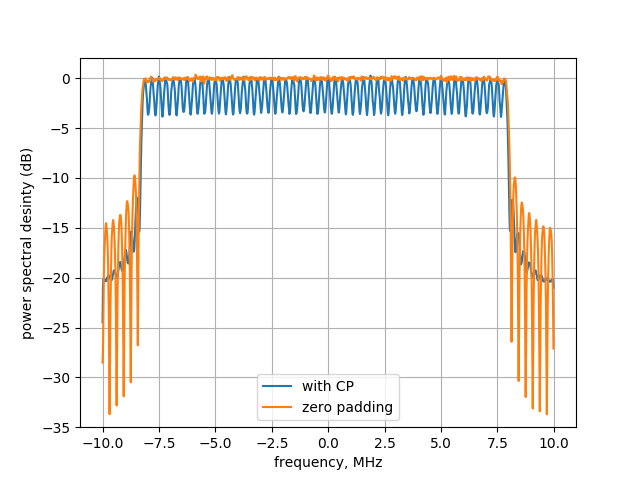
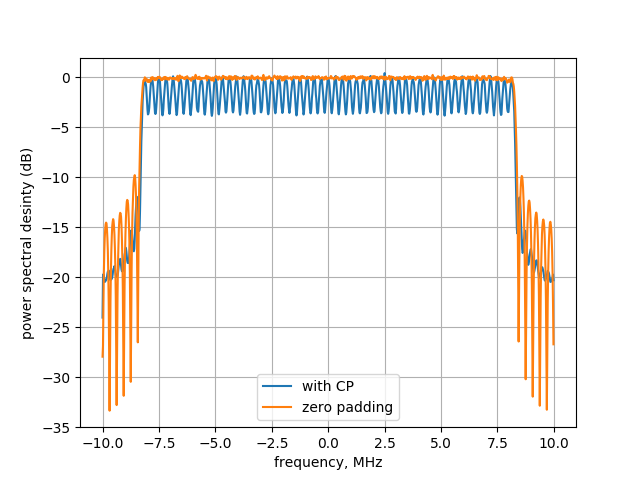
修改ofdm PSD模擬，並將先前的模擬結果上傳 ofdm已更新: 	PSD模擬

diff --git a/ofdm/basic structure/test_orthogonality.py b/ofdm/basic structure/test_orthogonality.py
@@ -7,7 +7,13 @@ from scipy import linalg
 # 則內積不為0，不正交
 # 我們也可以發現信號的delay，不影響正交性
 
-T_symbol = 1.6 # 一個symbol的周期
+# 而且還有很重要的一點，給定T_symbol(symbol 周期)時，我們會得到子載波的頻率為 k / T_symbol , k = 1,2,3....
+# 若取樣間隔為Ts，且Ts * Nfft = T_symbol (也就是一個symbol 周期內取樣Nfft個點)
+# 則只有剛好取Nfft個離散時域序列其FFT的離散頻譜才有正交性，取大於Nfft或小於Nfft個點就沒有正交性了
+
+
+Nfft = 16                      # 做Nfft的點數
+T_symbol = 1.6                 # 一個symbol的周期，這也代表其他子載波的頻率為( k / T_symbol )Hz , k = 1,2,3...
 
 t = [0]*1000
 T = 0.002  # 連續信號的間隔
@@ -16,18 +22,19 @@ for i in range(len(t)):
 x = [0]*len(t)
 re_x = [0]*len(t)
 
-t_sample = [0]*21 #總共會取樣21個點
-Ts = 0.1   # 取樣周期
+Ts = T_symbol / Nfft            # 取樣周期不可為其他數，否則會出現非正交
+t_sample = [0]*(int(2/Ts)+1)    # 總共會取樣(int(2/Ts)+1)個點
 for i in range(len(t_sample)):
     t_sample[i] = Ts*i
 x_sample = [0]*len(t_sample)
 re_x_sample = [0]*len(t_sample)
 
-f_index = [0]*16
+# 共取樣(int(2/Ts)+1)個點，選前Nfft個點
+f_index = [0]*Nfft
 for i in range(len(f_index)):
     f_index[i] = i
 
-x_matrix = [[0j]*6 for i in range(16)]
+x_matrix = [[0j]*6 for i in range(Nfft)]
 x_matrix = np.matrix(x_matrix)
 
 
@@ -102,7 +109,7 @@ for k in range(6):
     for j in range(len(x_sample)):
         re_x_sample[j] = x_sample[j].real
 
-    X = np.fft.fft(x_sample[0:16]) #從21個取樣點中，選前16個點來做FFT
+    X = np.fft.fft(x_sample[0:Nfft]) #從(int(2/Ts)+1)個取樣點中，選前Nfft個點來做FFT
     for j in range(len(X)):
         X[j] = abs(X[j])
 
@@ -119,7 +126,8 @@ for k in range(6):
     plt.ylabel('Re{X[k]}').set_rotation(0)
     ax = plt.gca()
     ax.yaxis.set_label_coords(-0.08,0.9) #用來設定座標軸名稱的位置
-    plt.xlim(0,15)
+    plt.xlim(0,Nfft)
+    plt.xticks(np.arange(0,Nfft,2))
 
 ans = x_matrix.getH() * x_matrix / (T_symbol/Ts) #可觀察ans matrix來判斷信號間是否有正交性
 print(ans)

diff --git a/ofdm/basic structure/power spectrum.py b/ofdm/basic structure/power spectrum.py
@@ -35,8 +35,8 @@ for k in range(2):
     ofdm_symbol = []
     for i in range(N):
         #決定所有sub-channel要送哪些信號
-        for m in range(64):#sub-channel :  0,1,2,3,4,5,58,59,60,61,62,63不用來傳送symbol
-            if m>=6 and m<=57:
+        for m in range(64):#sub-channel :  0,1,2,3,4,5,59,60,61,62,63不用來傳送symbol
+            if m>=6 and m<=58:
                 b = np.random.random()  # 產生一個 (0,1) uniform 分布的隨機變數，來決定要送哪個symbol
                 for n in range(len(constellation)):
                     if b <= (n + 1) / len(constellation):
@@ -91,7 +91,7 @@ for k in range(2):
     # 所以要統計這52個sub channel的平均功率
     mean_power = 0
     for j in range(len(PSD)):
-        if (j % (segment_len // Nfft) == 0) and (j // (segment_len // Nfft) >= 6 and j // (segment_len // Nfft) <=57):
+        if (j % (segment_len // Nfft) == 0) and (j // (segment_len // Nfft) >= 6 and j // (segment_len // Nfft) <=58):
             mean_power += PSD[j]
     mean_power /= Nusc
 
@@ -107,7 +107,7 @@ for k in range(2):
     # 所以要統計這52個sub channel的平均功率
     mean_power = 0
     for j in range(len(power)):
-        if (j % (segment_len // Nfft) == 0) and (j // (segment_len // Nfft) >= 6 and j // (segment_len // Nfft) <= 57):
+        if (j % (segment_len // Nfft) == 0) and (j // (segment_len // Nfft) >= 6 and j // (segment_len // Nfft) <= 58):
             mean_power += power[j]
     mean_power /= Nusc
 

diff --git a/ofdm/basic structure/ofdm modulation(rayleigh multipath channel) .py b/ofdm/basic structure/ofdm modulation(rayleigh multipath channel) .py
@@ -9,7 +9,7 @@ snr = [0]*len(snr_db)
 ber = [0]*len(snr_db)
 N = 10000              #執行N次來找錯誤率
 Nfft = 64               #總共有多少個sub channel
-X = [0]*64              #從頻域送出64
+X = [0]*64              #從頻域送出64個symbol
 Nusc = 52               #總共有多少sub channel 真正的被用來傳送symbol，假設是sub-channel : 0,1,2,29,30,31及32,33,34,61,62,63不用來傳送symbol
 t_sample = 5*10**(-8)   #取樣間隔
 n_guard = 16            #經過取樣後有n_guard個點屬於guard interval，Nfft個點屬於data interval
